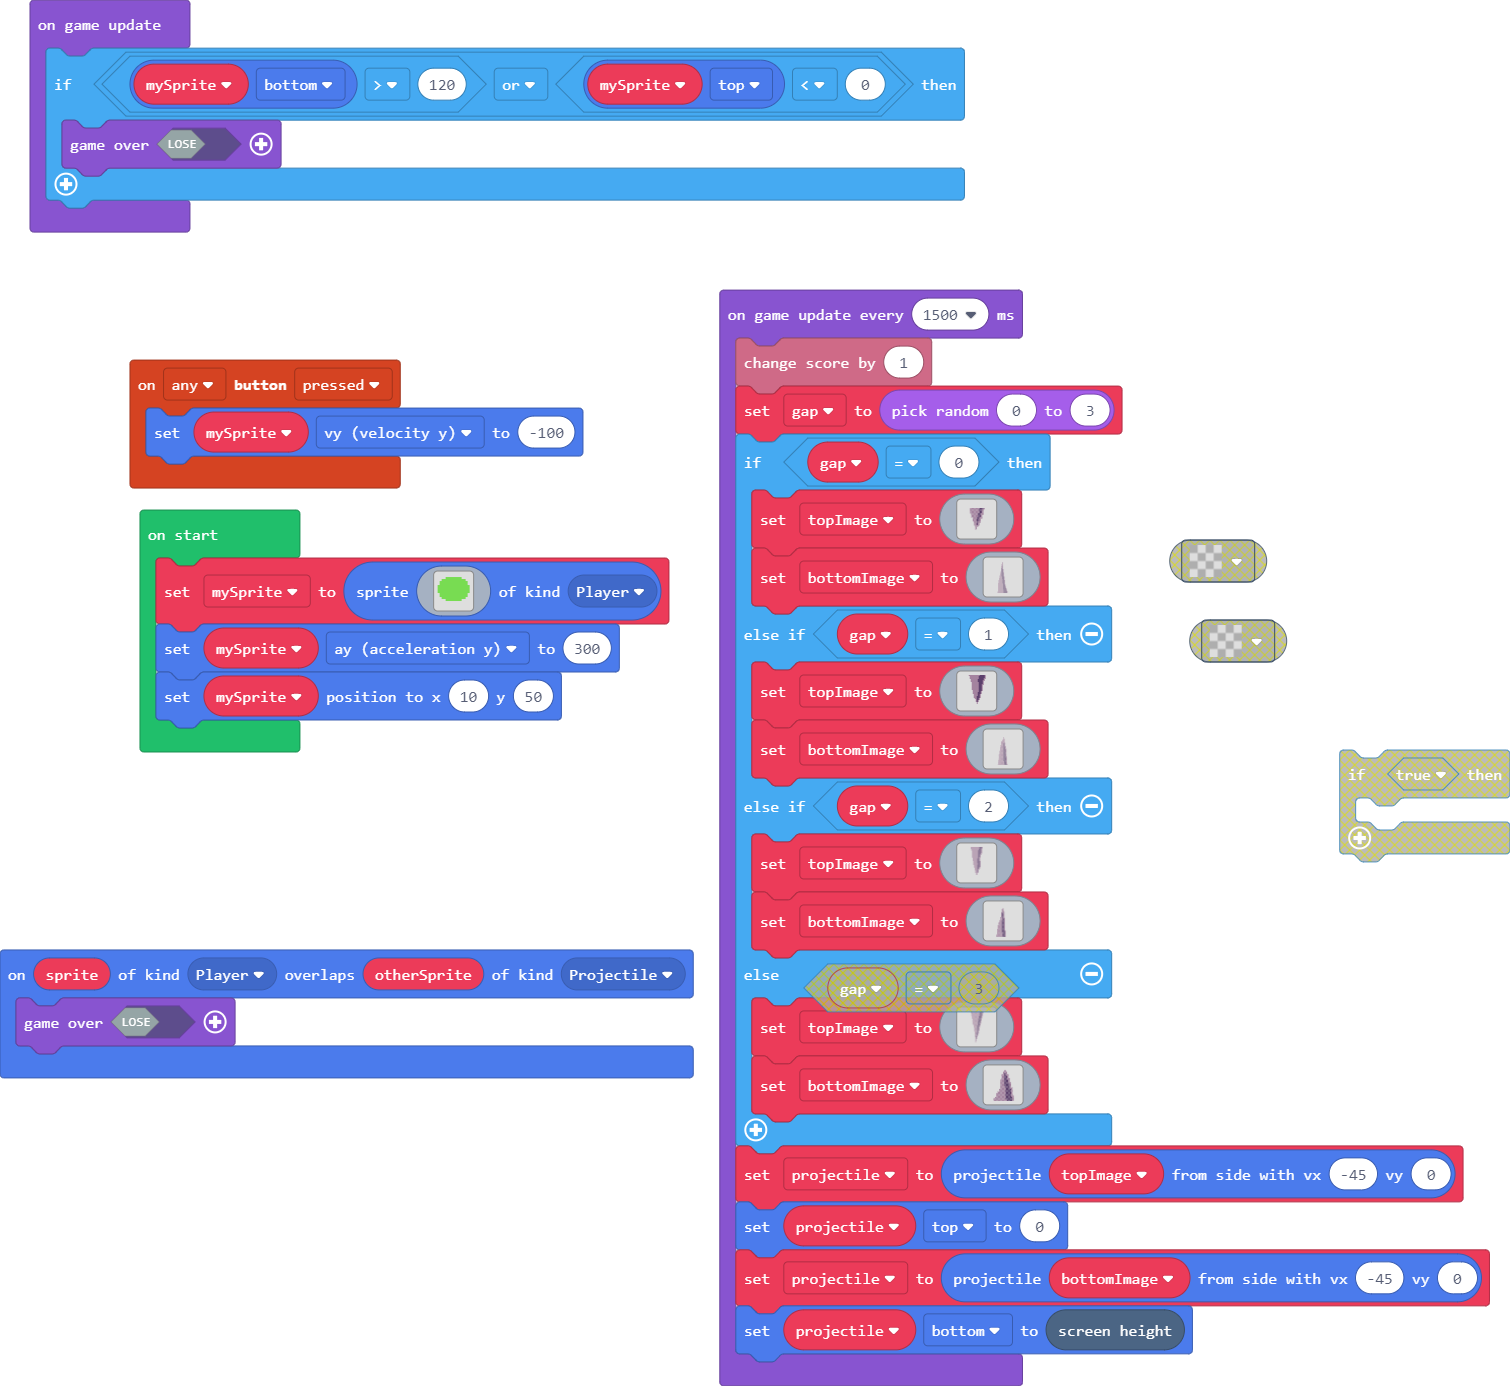
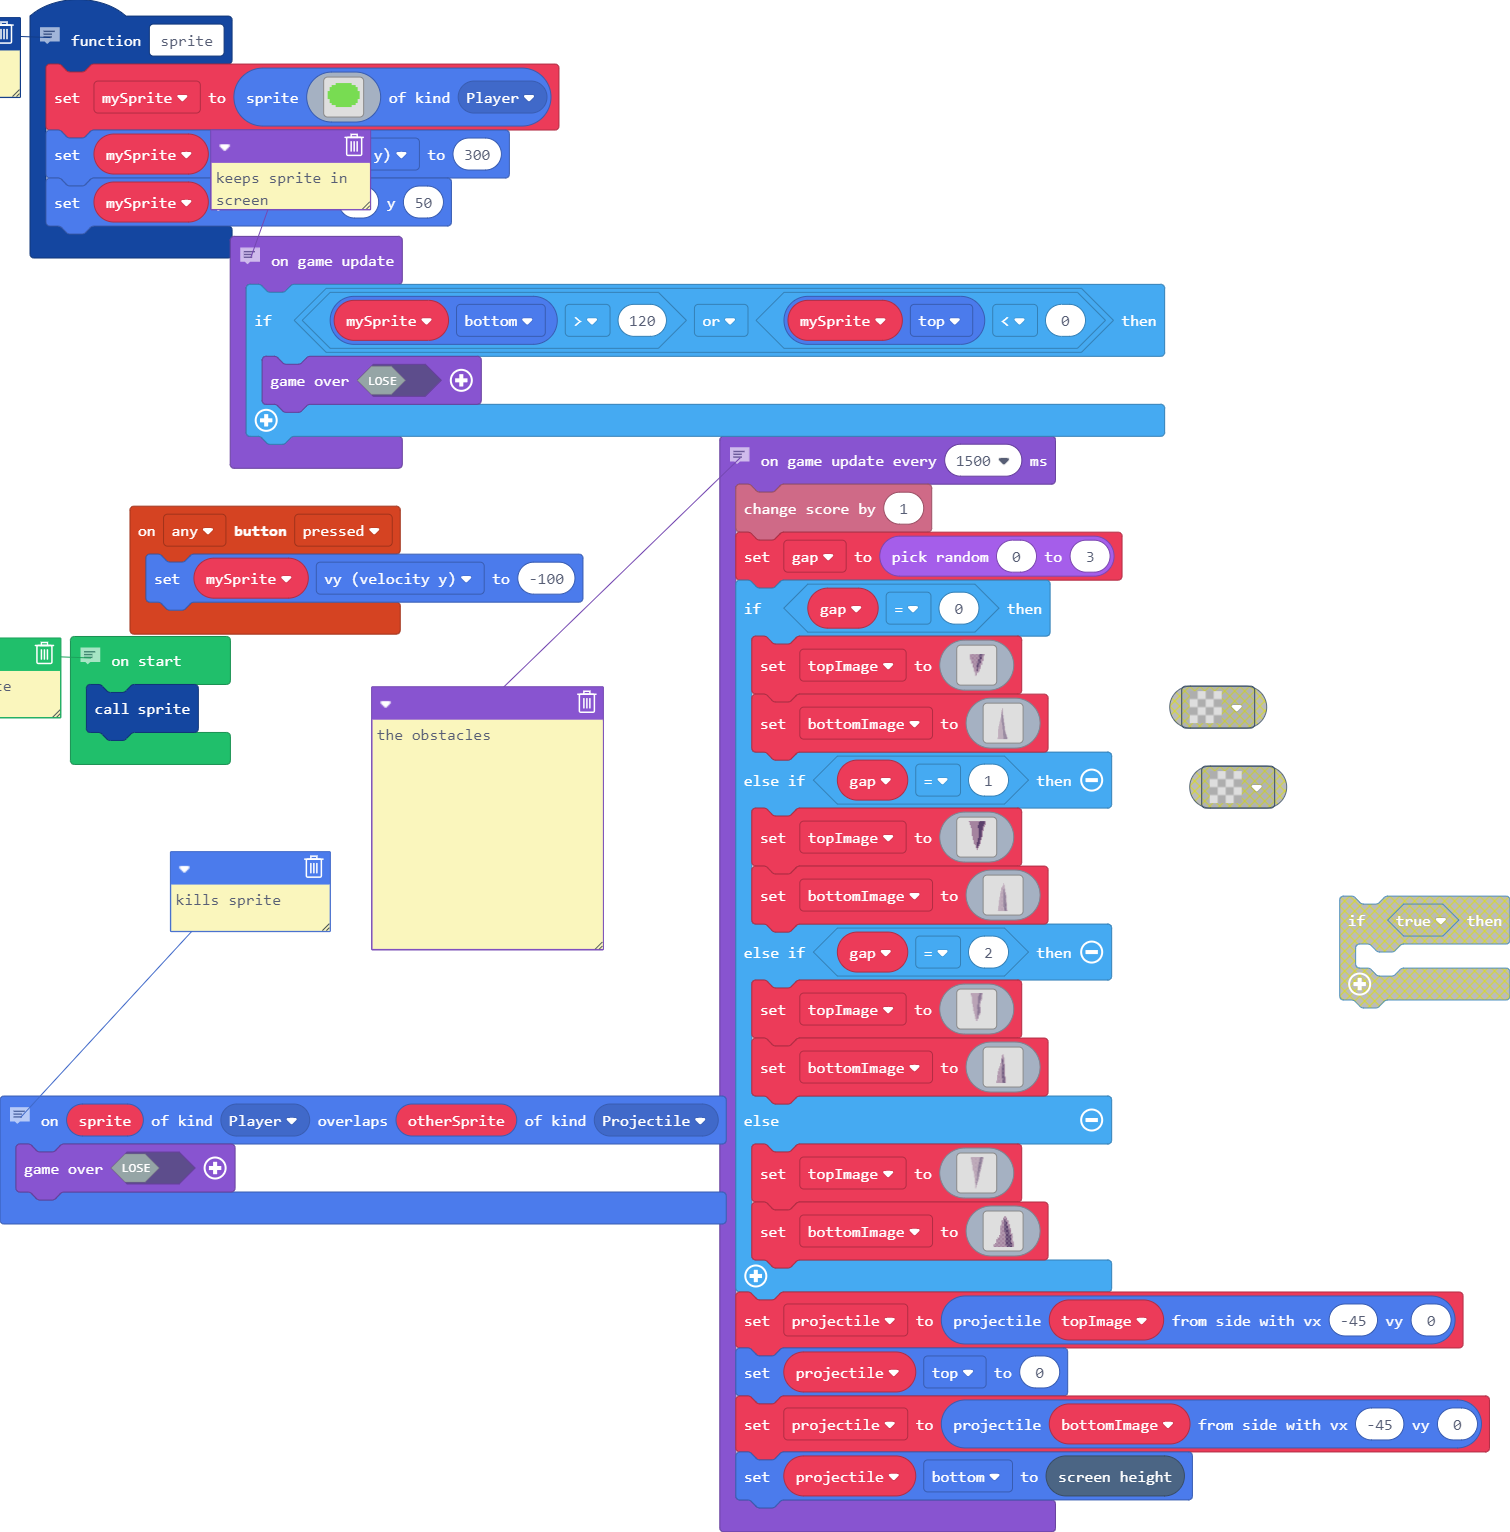
Update main.blocks, main.ts

diff --git a/main.ts b/main.ts
@@ -19,18 +19,9 @@ namespace myTiles {
 . . . . . . . . . . . . . . . . 
 `
 }
-sprites.onOverlap(SpriteKind.Player, SpriteKind.Projectile, function (sprite, otherSprite) {
-    game.over(false)
-})
-controller.anyButton.onEvent(ControllerButtonEvent.Pressed, function () {
-    mySprite.vy = -100
-})
-let projectile: Sprite = null
-let bottomImage: Image = null
-let topImage: Image = null
-let gap = 0
-let mySprite: Sprite = null
-mySprite = sprites.create(img`
+// the sprite
+function sprite () {
+    mySprite = sprites.create(img`
 . . . . . . . . . . . . . . . . 
 . . . . 7 7 7 7 7 7 7 7 . . . . 
 . . 7 7 7 7 7 7 7 7 7 7 7 7 . . 
@@ -48,8 +39,23 @@ mySprite = sprites.create(img`
 . . . . . . . . . . . . . . . . 
 . . . . . . . . . . . . . . . . 
 `, SpriteKind.Player)
-mySprite.ay = 300
-mySprite.setPosition(10, 50)
+    mySprite.ay = 300
+    mySprite.setPosition(10, 50)
+}
+// kills sprite
+sprites.onOverlap(SpriteKind.Player, SpriteKind.Projectile, function (sprite2, otherSprite) {
+    game.over(false)
+})
+controller.anyButton.onEvent(ControllerButtonEvent.Pressed, function () {
+    mySprite.vy = -100
+})
+let projectile: Sprite = null
+let bottomImage: Image = null
+let topImage: Image = null
+let gap = 0
+let mySprite: Sprite = null
+sprite()
+// the obstacles
 game.onUpdateInterval(1500, function () {
     info.changeScoreBy(1)
     gap = Math.randomRange(0, 3)
@@ -415,6 +421,7 @@ game.onUpdateInterval(1500, function () {
     projectile = sprites.createProjectileFromSide(bottomImage, -45, 0)
     projectile.bottom = scene.screenHeight()
 })
+// keeps sprite in screen
 game.onUpdate(function () {
     if (mySprite.bottom > 120 || mySprite.top < 0) {
         game.over(false)
